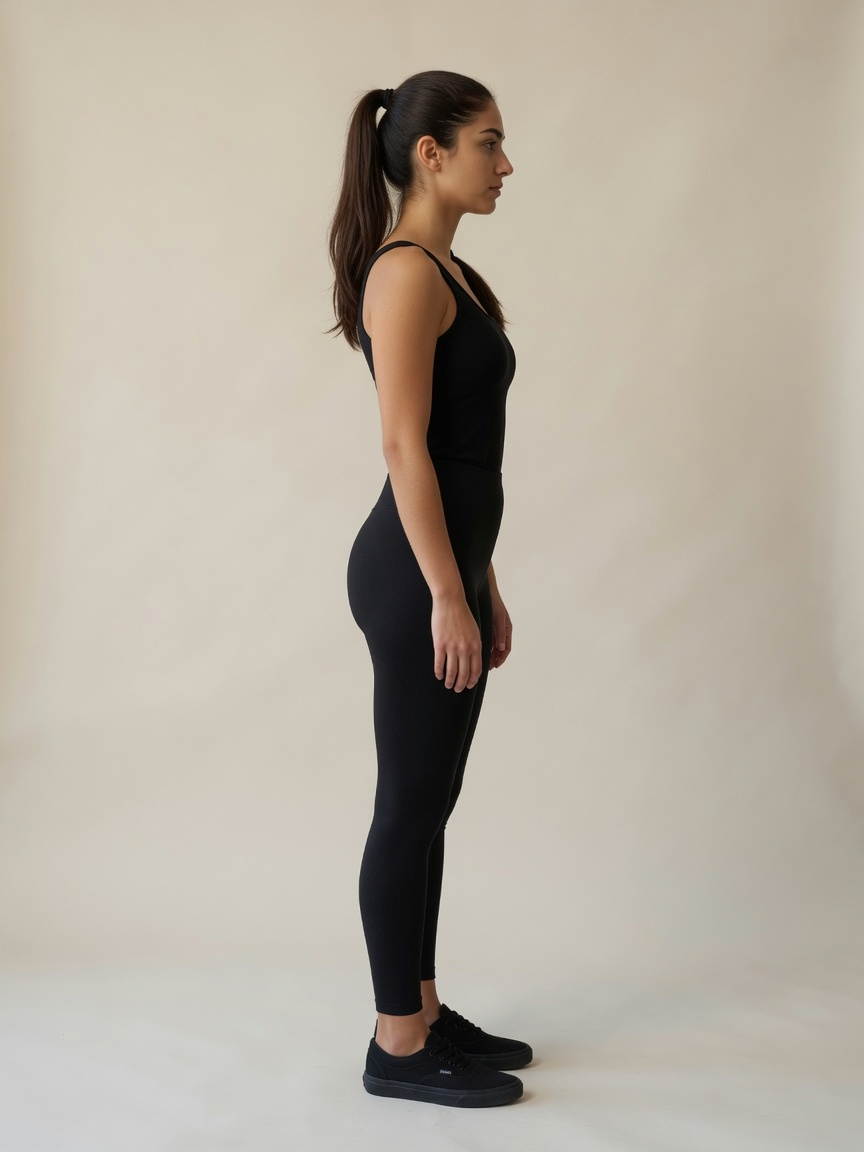
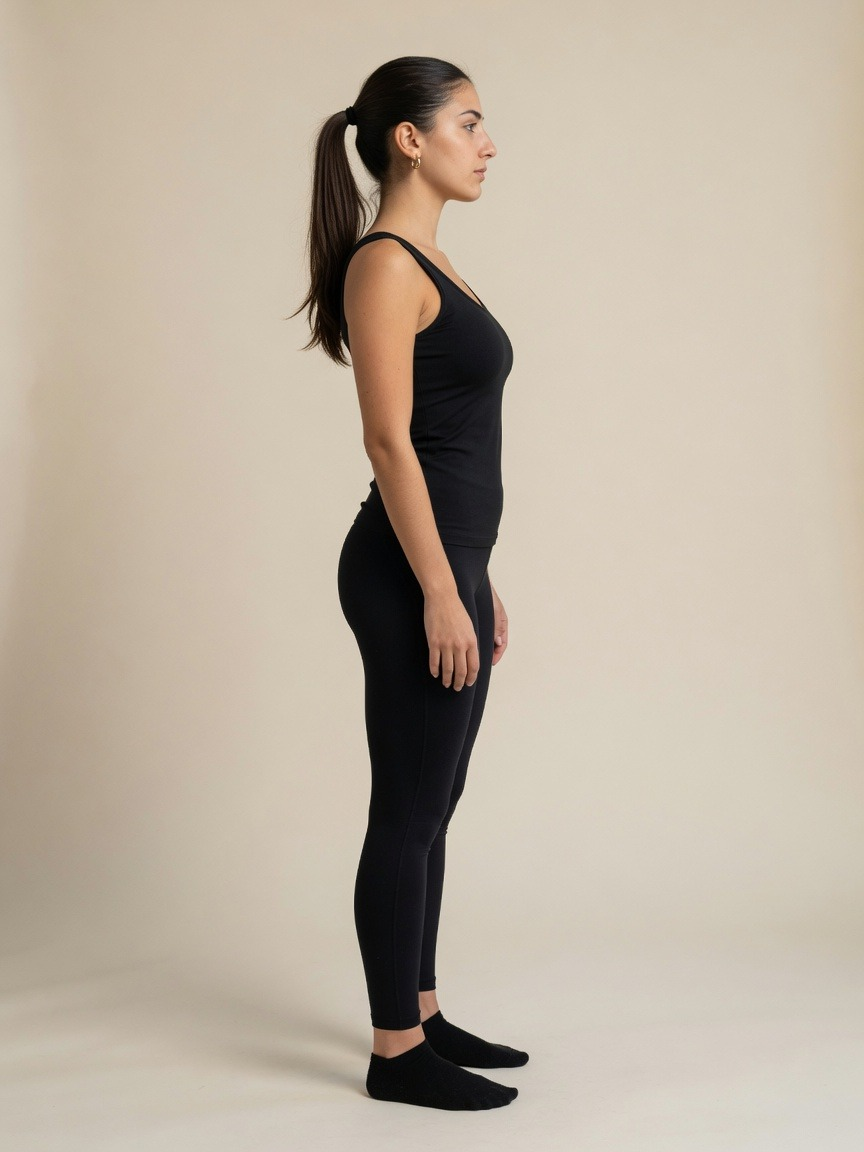
Fix right onboarding example: opposite profile of left, cache bust.

diff --git a/src/pages/OnboardingPage.tsx b/src/pages/OnboardingPage.tsx
@@ -18,28 +18,28 @@ const ANGLES: {
     angle: 'front',
     label: 'Napred',
     hint: 'Gledaš pravo u kameru',
-    example: '/onboarding/front.jpg',
+    example: '/onboarding/front.jpg?v=3',
     required: true,
   },
   {
     angle: 'left',
     label: 'Levo',
     hint: 'Tvoj levi bok ka kameri (profil)',
-    example: '/onboarding/left.jpg',
+    example: '/onboarding/left.jpg?v=3',
     required: true,
   },
   {
     angle: 'right',
     label: 'Desno',
     hint: 'Tvoj desni bok ka kameri (profil)',
-    example: '/onboarding/right.jpg',
+    example: '/onboarding/right.jpg?v=3',
     required: true,
   },
   {
     angle: 'back',
     label: 'Nazad',
     hint: 'Leđa ka kameri, glava odvraćena',
-    example: '/onboarding/back.jpg',
+    example: '/onboarding/back.jpg?v=3',
     required: true,
   },
 ]
